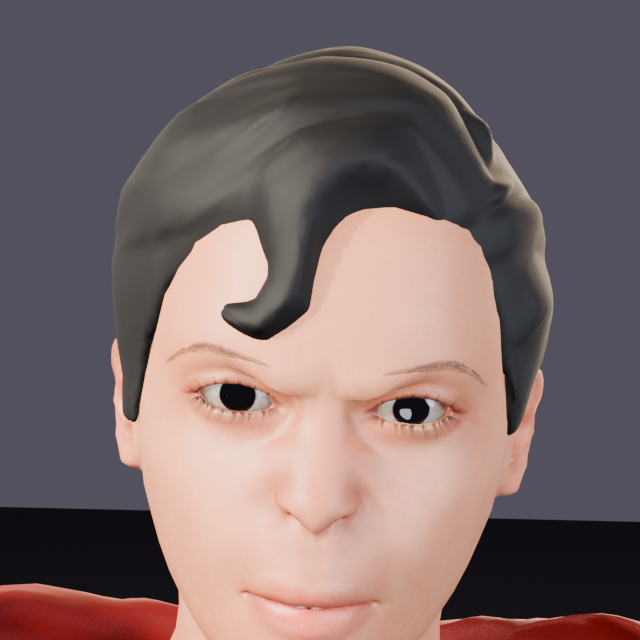
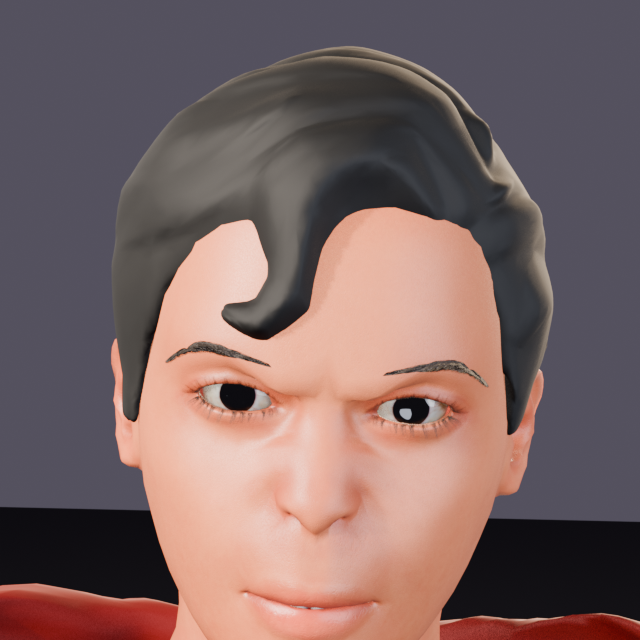
style_lab: warmer skin, bold brows, animated walk-in scene for Arian
Claude-Session: https://claude.ai/code/session_0195jcA68rZXhAyskUgtU8Q6

diff --git a/blender/style_lab/arian_board.py b/blender/style_lab/arian_board.py
@@ -26,6 +26,8 @@ bpy.ops.wm.read_factory_settings(use_empty=True)
 sc = bpy.context.scene
 idle = MC.load(os.path.join(HERE, "..", "mocap", "breathing_idle.fbx"))
 sit = MC.load(os.path.join(HERE, "..", "mocap", "sitting_idle.fbx")) if PART == "room" else None
+CL = {k: MC.load(os.path.join(HERE, "..", "mocap", k + ".fbx"))
+      for k in ("start_walking", "hands_forward_gesture", "nervously_look_around")} if PART == "anim" else {}
 
 # ------------------------------------------------------------------ the new Arian
 STYLE = dict(LK.STYLE)
@@ -129,18 +131,39 @@ def big_iris(m, k=1.45):
     nt.links.new(add.outputs[0], tex.inputs["Vector"])
 
 
-# warmer, slightly darker skin (the MakeHuman skin reads pale under the soft lights)
-for slot in ar.body.material_slots:
-    m = slot.material
-    b = next((n for n in m.node_tree.nodes if n.type == "BSDF_PRINCIPLED"), None)
-    s_ = b.inputs["Base Color"] if b else None
-    if s_ is not None and s_.is_linked:
-        mul = m.node_tree.nodes.new("ShaderNodeMix")
-        mul.data_type, mul.blend_type = "RGBA", "MULTIPLY"
-        mul.inputs["Factor"].default_value = 1.0
-        mul.inputs["B"].default_value = (0.92, 0.66, 0.5, 1)
-        m.node_tree.links.new(s_.links[0].from_socket, mul.inputs["A"])
-        m.node_tree.links.new(mul.outputs["Result"], s_)
+# warmer, slightly darker skin (the MakeHuman skin sits inside a node group and reads pale under soft lights)
+def warm_skin(nt, col=(0.9, 0.62, 0.47, 1)):
+    for n in list(nt.nodes):
+        if n.type == "GROUP" and n.node_tree and not n.node_tree.get("warm"):
+            n.node_tree["warm"] = 1
+            warm_skin(n.node_tree, col)
+        if n.type in ("BSDF_PRINCIPLED", "SUBSURFACE_SCATTERING", "BSDF_DIFFUSE"):
+            key = "Base Color" if "Base Color" in n.inputs else "Color"
+            s_ = n.inputs[key]
+            mul = nt.nodes.new("ShaderNodeMix")
+            mul.data_type, mul.blend_type = "RGBA", "MULTIPLY"
+            mul.inputs["Factor"].default_value = 1.0
+            mul.inputs["B"].default_value = col
+            if s_.is_linked:
+                nt.links.new(s_.links[0].from_socket, mul.inputs["A"])
+            else:
+                mul.inputs["A"].default_value = tuple(s_.default_value)
+            nt.links.new(mul.outputs["Result"], s_)
+
+
+warm_skin(ar.body.material_slots[0].material.node_tree)
+# bold, opaque brows
+for o in ar.parts.get("Eyebrows", []):
+    for slot in o.material_slots:
+        nt = slot.material.node_tree
+        b = next(n for n in nt.nodes if n.type == "BSDF_PRINCIPLED")
+        al = b.inputs["Alpha"]
+        if al.is_linked:
+            m_ = nt.nodes.new("ShaderNodeMath")
+            m_.operation, m_.use_clamp = "MULTIPLY", True
+            m_.inputs[1].default_value = 3.0
+            nt.links.new(al.links[0].from_socket, m_.inputs[0])
+            nt.links.new(m_.outputs[0], al)
 
 # ------------------------------------------------------------------ render setup
 sc.render.engine = "BLENDER_EEVEE"
@@ -219,7 +242,7 @@ if PART == "char":
         shot(os.path.join(OUT, f"board_face_{name}.png"), head + Vector((0.1, -0.62, 0.0)), head + Vector((0, 0, -0.01)),
              85, 640, 640)
 
-if PART == "room":
+if PART in ("room", "anim"):
     # cosy bedroom: lilac-blue walls, wooden shelves with toys, desk with a monitor, bed with a navy blanket,
     # big window with blue curtains, warm lamps; Arian sits on the bed
     world.node_tree.nodes["Background"].inputs[0].default_value = (0.5, 0.6, 0.8, 1)
@@ -306,6 +329,7 @@ if PART == "room":
         sc.collection.objects.link(o)
         o.location = loc
     P.area_light((0.5, -2.2, 2.3), (0, 1, 1), 110, 3.0, (0.75, 0.8, 1.0), name="Fill")
+if PART == "room":
     MC.apply(ar, sit, start=1, length=40, offset=(-0.82, 0.6, 0.22), facing=-105, in_place=True, step=1)
     MC.flush(ar)
     sc.frame_set(20)
@@ -313,3 +337,87 @@ if PART == "room":
     cam_d.dof.focus_object = ar.rig
     cam_d.dof.aperture_fstop = 4.0
     shot(os.path.join(OUT, "board_room.png"), (1.3, -2.2, 1.55), (-0.4, 1.2, 1.0), 24, 1280, 720)
+
+if PART == "anim":
+    # Arian walks in from the door side, stops by the bed, looks around the room, then "listen..." with both hands
+    import anim
+    N = 150
+
+    def smooth(u):
+        u = max(0.0, min(1.0, u))
+        return u * u * (3 - 2 * u)
+
+    def play(ch, clip, start, length, blend=0, **kw):
+        old = MC.BUF.pop(ch.rig.name, {})
+        MC.apply(ch, clip, start=start, length=length, step=1, **kw)
+        new = MC.BUF[ch.rig.name]
+        merged = {k: dict(v) for k, v in old.items()}
+        quat = {}
+        for (path, idx), pts in new.items():
+            if path.endswith("rotation_quaternion"):
+                quat.setdefault(path, {})[idx] = pts
+                continue
+            dst = merged.setdefault((path, idx), {})
+            for f, v in pts.items():
+                w = smooth((f - start) / blend) if blend and f in dst else 1.0
+                dst[f] = dst.get(f, v) * (1 - w) + v * w
+        for path, comps in quat.items():
+            olds = [merged.setdefault((path, i), {}) for i in range(4)]
+            for f in comps[0]:
+                qn = [comps[i][f] for i in range(4)]
+                if blend and f in olds[0] and f < start + blend:
+                    qo = [olds[i][f] for i in range(4)]
+                    if sum(a * b for a, b in zip(qo, qn)) < 0:
+                        qn = [-v for v in qn]
+                    w = smooth((f - start) / blend)
+                    q = [a * (1 - w) + b * w for a, b in zip(qo, qn)]
+                    n = math.sqrt(sum(v * v for v in q)) or 1.0
+                    qn = [v / n for v in q]
+                for i in range(4):
+                    olds[i][f] = qn[i]
+        MC.BUF[ch.rig.name] = merged
+
+    FACE = 130                                   # walking towards the back-left (the bed)
+    A0 = Vector((1.55, -1.25, 0))
+    play(ar, CL["start_walking"], 1, 72, offset=A0, facing=FACE, in_place=False)
+    MC.flush(ar)
+    sc.frame_set(72)
+    p = ar.rig.matrix_world @ ar.rig.pose.bones["pelvis"].head
+    stop = Vector((p.x, p.y, 0))
+    play(ar, CL["nervously_look_around"], 62, 50, blend=14, offset=stop, facing=FACE - 40, in_place=True)
+    play(ar, CL["hands_forward_gesture"], 104, 47, blend=12, offset=stop, facing=FACE - 70, in_place=True)
+    MC.flush(ar)
+    for f in range(1, N + 1):
+        t = (f - 1) / 24
+        st = dict(t=t, seed=ar.seed, talking=(108 <= f <= 146), worry=0.4)
+        for k, v in anim.face(st).items():
+            if k in ar.keys:
+                ar._put(ar.body.data.shape_keys, f'key_blocks["{k}"].value', 0, f, max(0.0, min(1.0, v)))
+    ar.flush()
+    # camera: from near the desk, follows his head with a slow drift
+    sc.frame_start, sc.frame_end = 1, N
+    sc.render.fps = 24
+    cam_d.lens = 30
+    cam_d.dof.use_dof = True
+    cam_d.dof.focus_object = ar.rig
+    cam_d.dof.aperture_fstop = 3.5
+    for f in range(1, N + 1, 3):
+        sc.frame_set(f)
+        h = ar.rig.matrix_world @ ar.rig.pose.bones["head"].head
+        aim.location = (h.x, h.y, h.z - 0.25)
+        aim.keyframe_insert("location", frame=f)
+        u = (f - 1) / (N - 1)
+        cam.location = (1.6 - 0.5 * u, -2.3 + 0.45 * u, 1.5)
+        cam.keyframe_insert("location", frame=f)
+    sc.render.resolution_x, sc.render.resolution_y = 1280, 720
+    a, b = [int(v) for v in argv[argv.index("--frames") + 1:argv.index("--frames") + 3]] if "--frames" in argv else (1, N)
+    d = os.path.join(HERE, "frames", "arian")
+    os.makedirs(d, exist_ok=True)
+    todo = [int(v) for v in argv[argv.index("--pick") + 1].split(",")] if "--pick" in argv else range(a, b + 1)
+    for f in todo:
+        pth = os.path.join(d, f"f_{f:04d}.png")
+        if os.path.exists(pth) and "--still" not in argv:
+            continue
+        sc.frame_set(f)
+        sc.render.filepath = pth
+        bpy.ops.render.render(write_still=True)
